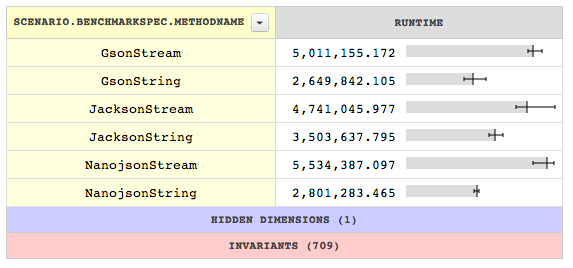
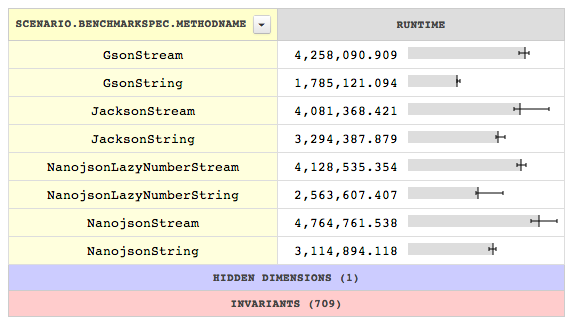
Correctly benchmark w/ and w/o lazy numbers

Changed region(s): [[0.0, 0.0, 1.0, 0.9851]]

diff --git a/src/test/java/com/grack/nanojson/perf/Perf.java b/src/test/java/com/grack/nanojson/perf/Perf.java
@@ -51,8 +51,24 @@ public class Perf {
 			string = readAsUtf8(stm);
 		}
 
-		public void timeNanojsonString(int reps) throws JsonParserException {
+		public void timeNanojsonLazyNumberString(int reps) throws JsonParserException {
 			JsonParserContext<JsonObject> parser = JsonParser.object().withLazyNumbers();
+			for (int i = 0; i < reps; i++) {
+				parser.from(string);
+			}
+		}
+
+		public void timeNanojsonLazyNumberStream(int reps) throws JsonParserException, IOException {
+			JsonParserContext<JsonObject> parser = JsonParser.object().withLazyNumbers();
+			for (int i = 0; i < reps; i++) {
+				InputStream stm = url.openStream();
+				parser.from(stm);
+				stm.close();
+			}
+		}
+
+		public void timeNanojsonString(int reps) throws JsonParserException {
+			JsonParserContext<JsonObject> parser = JsonParser.object();
 			for (int i = 0; i < reps; i++) {
 				parser.from(string);
 			}

diff --git a/README.md b/README.md
@@ -16,7 +16,7 @@ nanojson is dual-licensed under the MIT and Apache Public License.
 ### Fast
 
   * Minimal object allocation
-  * Fastest Java JSON in many cases: faster that Jackson when parsing from memory and in some streaming cases:
+  * Fastest Java JSON in many cases: faster that Jackson when parsing from memory and in some streaming cases (with lazy numbers enabled):
 
 ![](/docs/perf.png)
         
